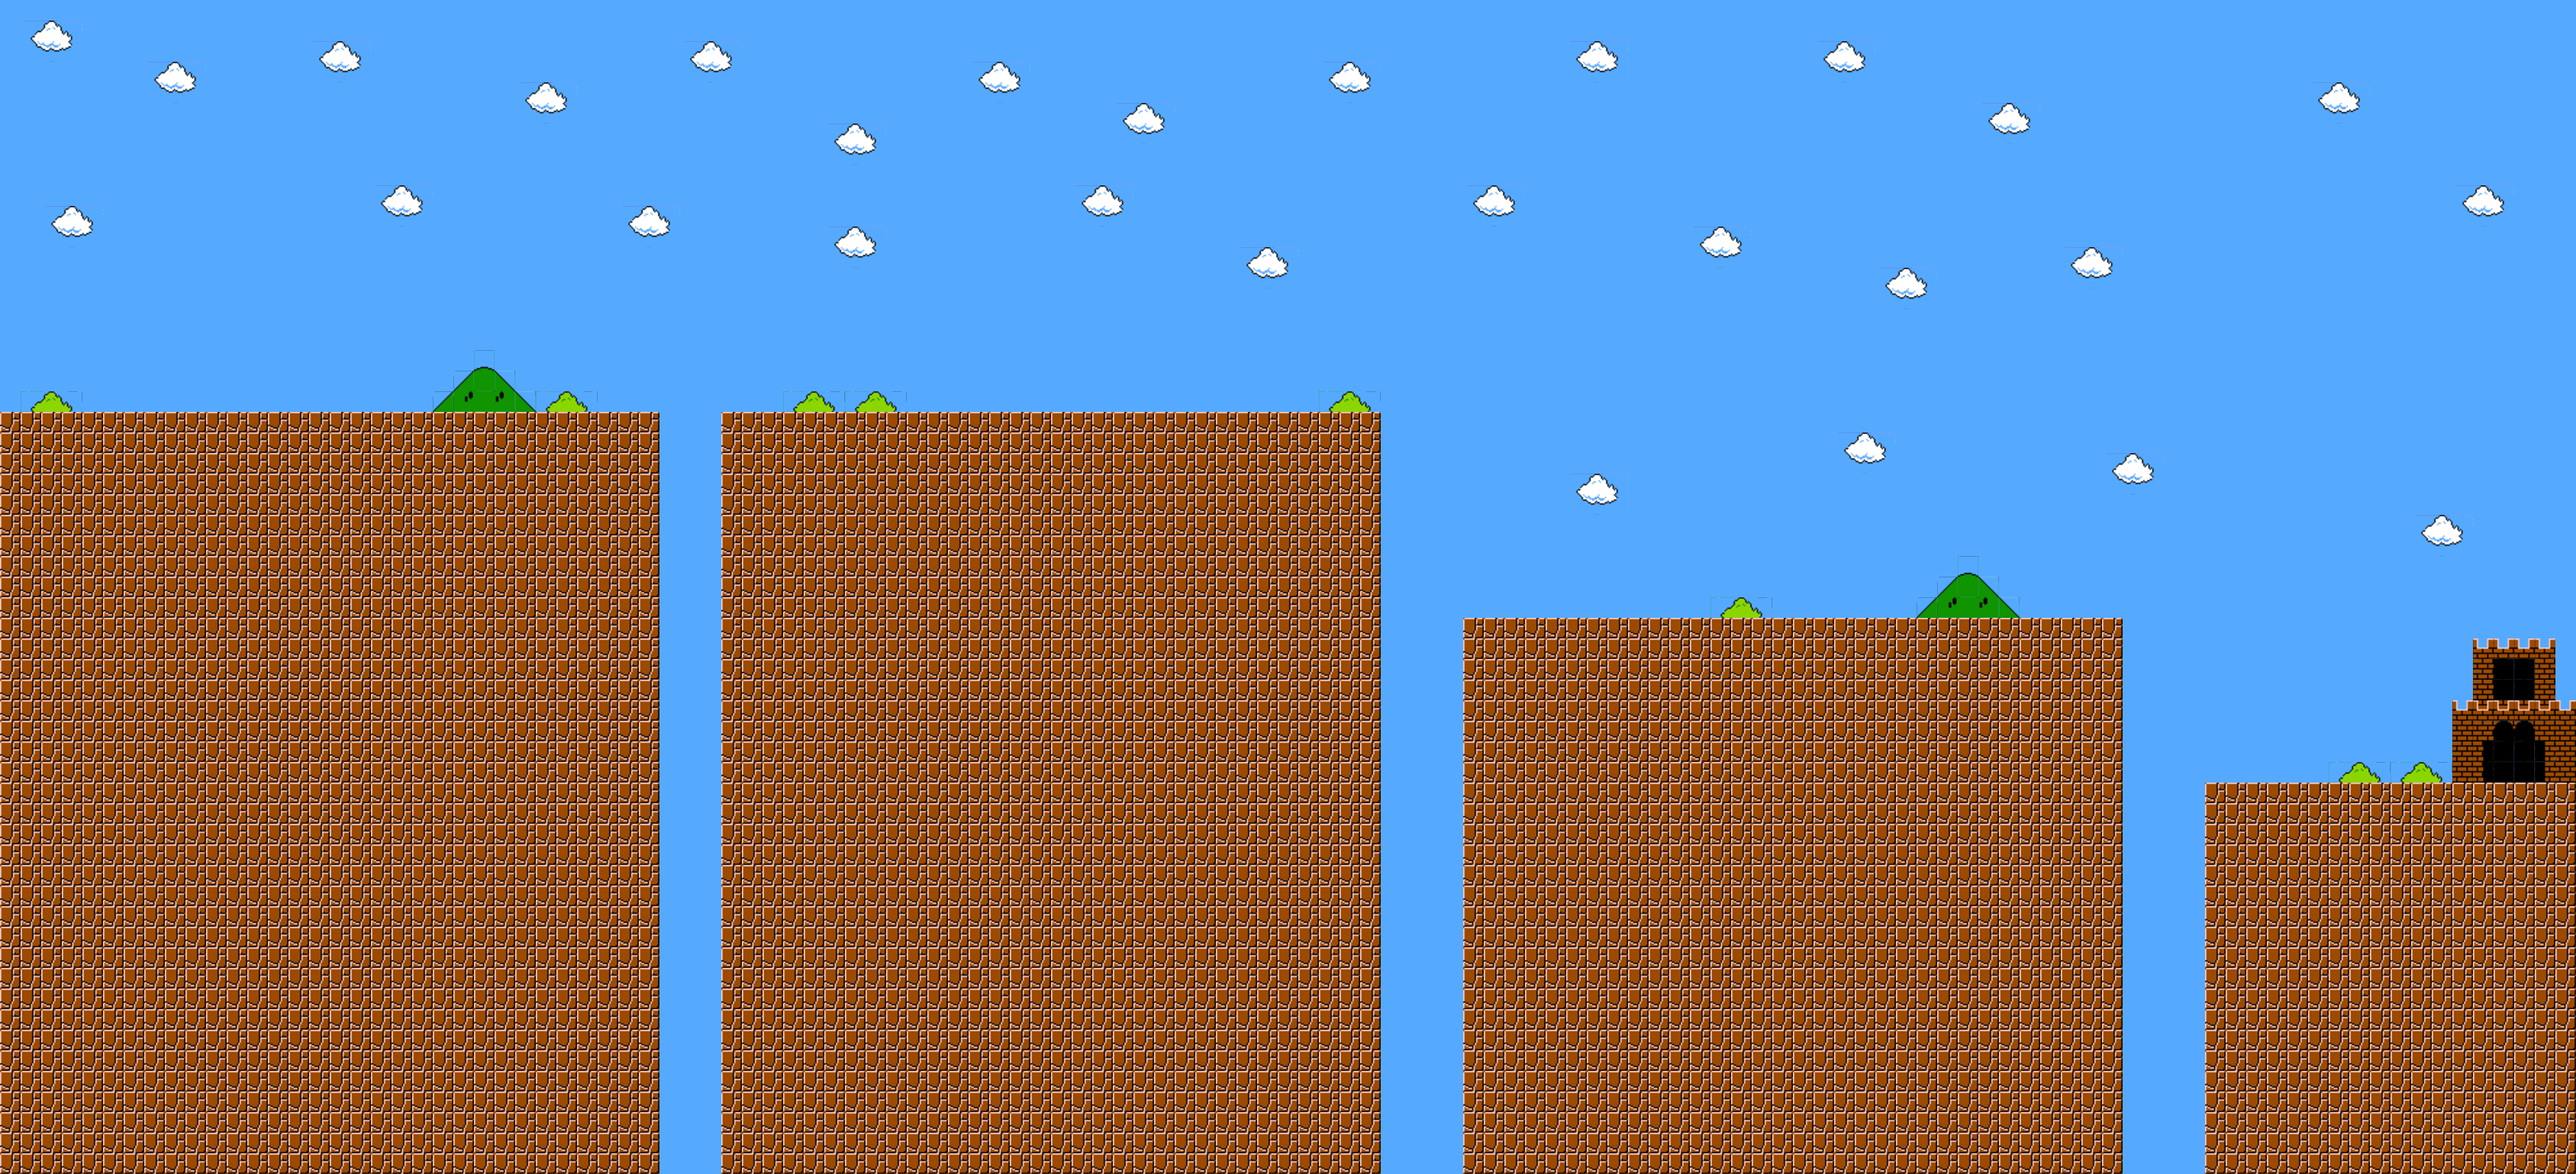
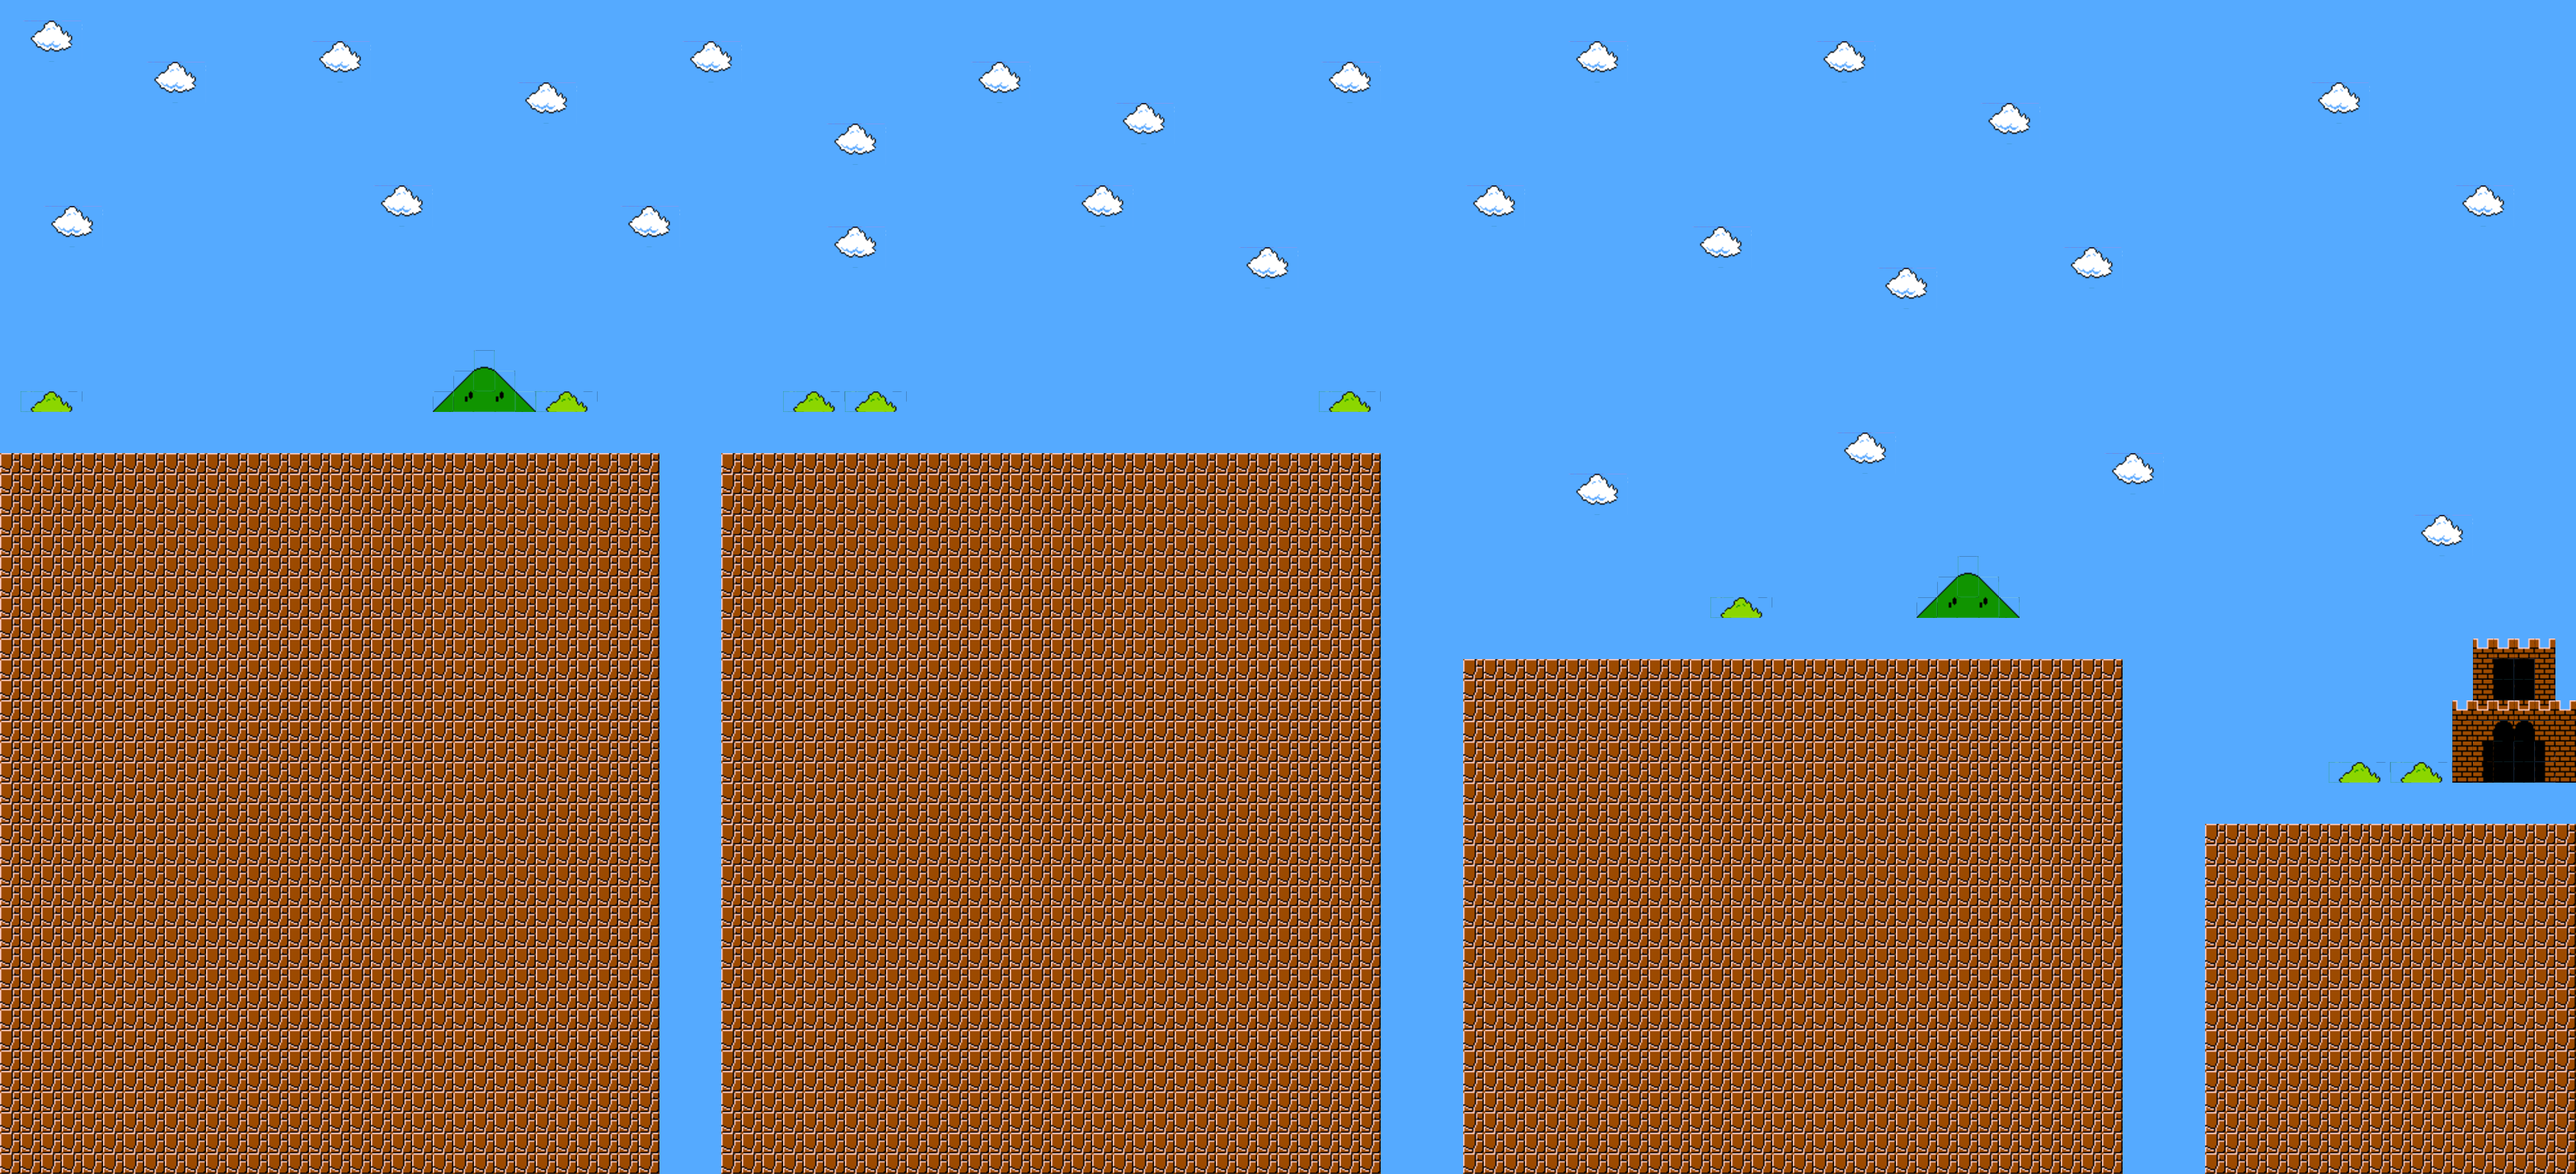
fondo y elementos se mueven correctamente, bloques se pueden golpear

Changed region(s): [[0.0, 0.3438, 0.5625, 0.4062], [0.5625, 0.5, 0.8438, 0.5625], [0.8438, 0.6562, 1.0, 0.7188]]

diff --git a/Jugador.py b/Jugador.py
@@ -1,38 +1,85 @@
 import pygame
+from lib_juegos import *
 
+LIMITE_IZ = 90
+LIMITE_DER = 850
 class Jugador(pygame.sprite.Sprite):
 	"""docstring for Nave"""
-	def __init__(self, all_b_sprite, pos_fondo):
+	def __init__(self, all_b_sprite, pos_fondo, info_ventana, info_fondo):
 		super().__init__()
-		self.image = pygame.image.load("./data/img/sprite_mario_right.png").convert()
-		self.image.set_colorkey((0,0,0))
+		self.m=Recorte("./data/img/mario.png",14,10)
+		#self.direccion=0
+		#self.con=7
+		#self.image=self.m[self.direccion][self.con]
+		#self.image = pygame.image.load("./data/img/sprite_mario_right.png").convert()
+		#self.image.set_colorkey((0,0,0))
+		self.image=pygame.Surface([32,32])
+		self.image.fill([0,255,0])
 		self.rect = self.image.get_rect()
-		self.rect.x = 0
+		self.rect.x = 100
 		self.rect.y = 50
 		self.all_b_sprite = all_b_sprite
+		self.ancho=info_ventana[0]
+		self.f_ancho=info_fondo[0]
 		self.vel_x = 0
 		self.vel_y = 5
+		self.f_vel_x = 0
+		self.b_vel_x = 0
 		self.f_x = pos_fondo[0]
 		self.f_y = pos_fondo[1]
+		self.saltar=False
+
+	def gravedad(self,cte):
+		if self.vel_y==0:
+			self.vel_y=1
+		else:
+			self.vel_y+=cte
 
 	def update(self):
+    		
+		#movimiento horizontal
+		if self.rect.x < LIMITE_IZ:
+			self.rect.x = LIMITE_IZ
+			self.b_vel_x=(-self.vel_x)
+			self.f_vel_x = -self.vel_x
+		if self.rect.x > LIMITE_DER:
+			self.rect.x = LIMITE_DER
+			self.b_vel_x=(-self.vel_x)
+			self.f_vel_x = -self.vel_x
+
+		if self.vel_x!=0 and (self.rect.x==LIMITE_IZ or self.rect.x==LIMITE_DER):
+			if ((self.f_x+self.f_vel_x) < 0) and  (self.f_x!=self.ancho-self.f_ancho): #condicion para que se muevan dentro del tamaño del fondo
+				self.all_b_sprite.update(self.b_vel_x)
+				self.f_x +=self.f_vel_x
+			elif ((self.f_x+self.f_vel_x) >= (self.ancho-self.f_ancho)) and self.f_x!=0:
+				self.all_b_sprite.update(self.b_vel_x)
+				self.f_x +=self.f_vel_x
 		
-		if self.rect.x < 10:
-			self.rect.x = 10
-		if self.rect.x > 850:
-			self.rect.x = 850
-		if self.rect.y > 600:
-			self.rect.y = -64
-
 		self.rect.x += self.vel_x
-		self.rect.y += self.vel_y
-		if self.vel_x!=0 and (self.rect.x<150 or self.rect.x>850):
-			print("Reajuste Bloques: ",self.all_b_sprite)
-			self.all_b_sprite.update(-self.vel_x)
-			self.f_x += -self.vel_x
-
-
-		bloque_hit_list = pygame.sprite.spritecollide(self, self.all_b_sprite, False)	
+		bloque_hit_list = pygame.sprite.spritecollide(self, self.all_b_sprite, False)
 		for bloque in bloque_hit_list:
-			if bloque.rect.y < (self.rect.y+64):
-				self.rect.y = bloque.rect.y-64
+			if self.vel_x > 0: 
+				if self.rect.right > bloque.rect.left:
+					self.rect.right = bloque.rect.left
+					self.vel_x=0
+			else: 
+				if self.rect.left < bloque.rect.right:
+					self.rect.left = bloque.rect.right
+					self.vel_x=0
+
+		self.rect.y += self.vel_y
+		bloque_hit_list = pygame.sprite.spritecollide(self, self.all_b_sprite, False)
+		for bloque in bloque_hit_list:
+			if self.vel_y > 0: 
+				if self.rect.bottom > bloque.rect.top:
+					self.rect.bottom=bloque.rect.top
+					self.vel_y=0
+					self.saltar=False
+			elif self.vel_y < 0:
+				if self.rect.top < bloque.rect.bottom:
+					self.rect.top = bloque.rect.bottom
+					self.vel_y=0
+					bloque.golpear()
+
+		self.gravedad(1)
+

diff --git a/main.py b/main.py
@@ -6,7 +6,7 @@ from Jugador import Jugador
 from LecturaSpriteMapa import LecturaSpriteMapa
 
 ANCHO=992
-ALTO=600
+ALTO=568
 
 if __name__ == '__main__': 
     
@@ -25,37 +25,40 @@ if __name__ == '__main__':
 	f_x = 0
 	f_y = -129
 
-	jugador = Jugador(all_bloques, [f_x, f_y] )
+	jugador = Jugador(all_bloques, [f_x, f_y], [ANCHO,ALTO],[fondo_ancho,fondo_alto])
 	all_sprites.add(jugador)
 
 	while not fin :
-	    #gestion de eventos
-	    for event in pygame.event.get():
-	        if event.type == pygame.QUIT:
-	            fin=True
+		#gestion de eventos
+		for event in pygame.event.get():
+			if event.type == pygame.QUIT:
+				fin=True
 
-	        if event.type == pygame.KEYDOWN:
-	        	print("Evento key Down: ",event.key)
-	        	if event.key == pygame.K_RIGHT:
-	        		jugador.image = pygame.image.load("./data/img/sprite_mario_right.png").convert()
-	        		jugador.image.set_colorkey((0,0,0))
-	        		jugador.vel_x = 5
-	        	if event.key == pygame.K_LEFT:
-	        		jugador.image = pygame.image.load("./data/img/sprite_mario_left.png").convert()
-	        		jugador.image.set_colorkey((0,0,0))
-	        		jugador.vel_x = -5
+			if event.type == pygame.KEYDOWN:
+				print("Evento key Down: ",event.key)
+				if event.key == pygame.K_RIGHT:
+					jugador.vel_x = 5
+				if event.key == pygame.K_LEFT:
+					jugador.vel_x = -5
+				if event.key == pygame.K_UP:
+					if not(jugador.saltar):
+						jugador.vel_y = -14
+						jugador.saltar=True
 
-	        if event.type == pygame.KEYUP:
-	        	print("Evento key UP: ",event.key)
-	        	if event.key == pygame.K_RIGHT and jugador.vel_x != 0 :
-	        		jugador.vel_x = 0
-	        	if event.key == pygame.K_LEFT and jugador.vel_x != 0 :
-	        		jugador.vel_x = 0
+			if event.type == pygame.KEYUP:
+				print("Evento key UP: ",event.key)
+				if event.key == pygame.K_RIGHT and jugador.vel_x != 0 :
+					jugador.vel_x = 0
+					jugador.f_vel_x = 0
+				if event.key == pygame.K_LEFT and jugador.vel_x != 0 :
+					jugador.vel_x = 0
+					jugador.f_vel_x = 0
+				if event.key != pygame.K_UP:
+					jugador.vel_x=0
 
-	    pantalla.blit(fondo,[ jugador.f_x , jugador.f_y])
+		pantalla.blit(fondo,[ jugador.f_x , jugador.f_y])
+		all_sprites.update()
+		all_sprites.draw(pantalla)
+		pygame.display.flip()
 
-	    all_sprites.update()
-	    all_sprites.draw(pantalla)
-	    pygame.display.flip()
-
-	    clock.tick(60)
+		clock.tick(30)

diff --git a/Bloque.py b/Bloque.py
@@ -1,5 +1,5 @@
 import pygame
-
+ 
 class Bloque(pygame.sprite.Sprite):
 	"""docstring for Meteoro"""
 	def __init__(self, b_sprite, pos):
@@ -9,6 +9,24 @@ class Bloque(pygame.sprite.Sprite):
 		self.rect = self.image.get_rect()
 		self.rect.x = pos[0]
 		self.rect.y = pos[1]
+		self.vel_y=0
+		self.golpeada=False
+
+	def gravedad(self,cte):
+		if self.vel_y==0:
+			self.vel_y=1
+		else:
+			self.vel_y+=cte
 
 	def update(self, velocidad=0):
 		self.rect.x += velocidad
+		self.rect.y += self.vel_y
+		if self.golpeada:
+			self.gravedad(0.5)
+			if self.vel_y>2.5:
+				self.vel_y=0
+				self.golpeada=False
+
+	def golpear(self):
+		self.vel_y=-2
+		self.golpeada=True

diff --git a/LecturaSpriteMapa.py b/LecturaSpriteMapa.py
@@ -51,7 +51,7 @@ class LecturaSpriteMapa():
 		all_sprites = pygame.sprite.Group()
 		for fil_m in self.filas_mapa:
 			for dato in fil_m:
-				if dato=="#": # Condicion para definir los elementos Bloque (piedas, palmas, tubos)
+				if dato=="b" or dato=="T" or dato=="a": # Condicion para definir los elementos Bloque (piedas, palmas, tubos)
 					bloque = Bloque(self.lista_obj_sprite[dato], [indice_col*self.an_sprites, indice_fil*self.al_sprites])
 					all_bloque_sprites.add(bloque)
 					all_sprites.add(bloque)

diff --git a/lib_juegos.py b/lib_juegos.py
@@ -9,7 +9,7 @@ NEGRO=[0,0,0]
 BLANCO=[255,255,255]
 
 def Recorte(nom_img,ob_an,ob_al):
-    terreno=pygame.image.load('C:/Users/ttati/Desktop/Estudio/semestre 6/Computacion grafica/juegos/images/'+nom_img)
+    terreno=pygame.image.load(nom_img)
     info=terreno.get_rect()
     print(info)
     #parametros: posicion x, posicion y, ancho corte, alto corte
